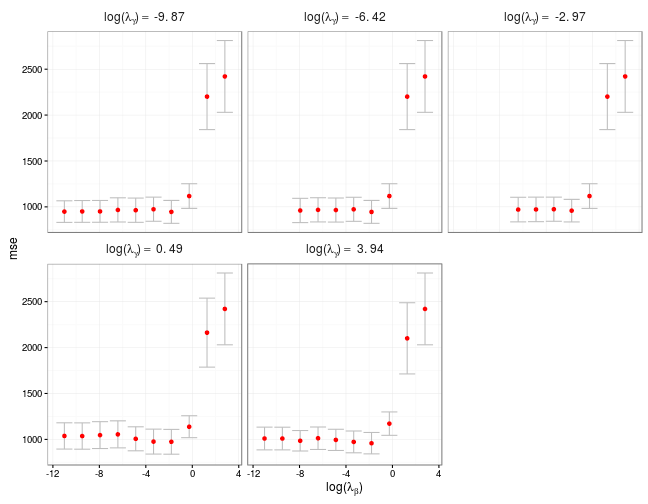
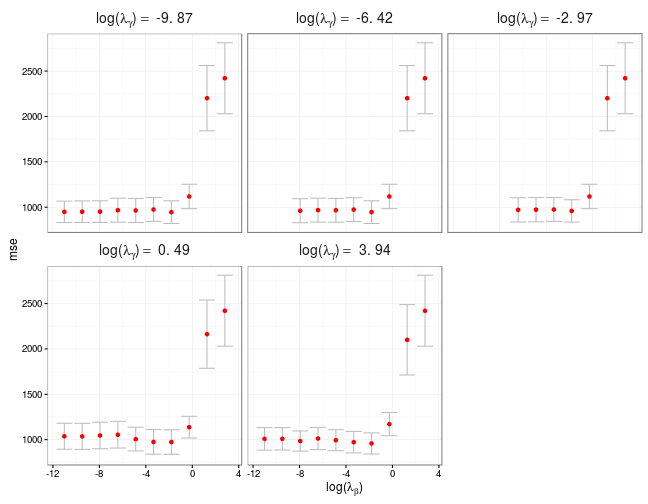
added facet wrap post

diff --git a/_posts/2016-02-08-facet_wrap_labels.md b/_posts/2016-02-08-facet_wrap_labels.md
@@ -34,35 +34,31 @@ I have posted some sample data in a [GitHub Gist](https://gist.github.com/sahirb
 
 {% highlight r %}
 data <- devtools::source_gist("https://gist.github.com/sahirbhatnagar/ed3caf50247cae8e3e1c",
-                           sha1 = "3073e2ea147ce2818fa4e8841c6efa227378e1aa")$value
+                              sha1 = "3073e2ea147ce2818fa4e8841c6efa227378e1aa")$value
 {% endhighlight %}
 
 Then we create a labelling function which takes as input a string and prepends $$\log(\lambda_{\gamma})$$ to it. Note that `latex2exp::TeX` is the workhorse function that parses $$\LaTeX$$ syntax so that `R` understands it. Otherwise it becomes very messy to try and write more complex math expressions in `R`.
 
 
 {% highlight r %}
-appender <- function(string) TeX(paste("$\\log(\\lambda_{\\gamma}) = $", 
-                                       string))  
+appender <- function(string) 
+    TeX(paste("$\\log(\\lambda_{\\gamma}) = $", string))  
 {% endhighlight %}
 
 The code to produce the plot above is given by:
 
 
 {% highlight r %}
-ggplot(data, 
-       aes(log(lambda.beta), 
-           ymin = lower, 
-           ymax = upper)) + 
+ggplot(data, aes(log(lambda.beta), ymin = lower, ymax = upper)) + 
     geom_errorbar(color = "grey") + 
-    geom_point(aes(x = log(lambda.beta), 
-                   y = mse), 
+    geom_point(aes(x = log(lambda.beta), y = mse), 
                colour = "red") +
     theme_bw() + 
     facet_wrap(~lg, scales = "fixed", 
                labeller = as_labeller(appender, 
-                                      default = label_parsed)) + 
+                            default = label_parsed)) + 
     theme(strip.background = element_blank(), 
-          strip.text.x = element_text(size = 12)) + 
+          strip.text.x = element_text(size = 14)) + 
     xlab(TeX("$\\log(\\lambda_{\\beta})$"))
 {% endhighlight %}
 
